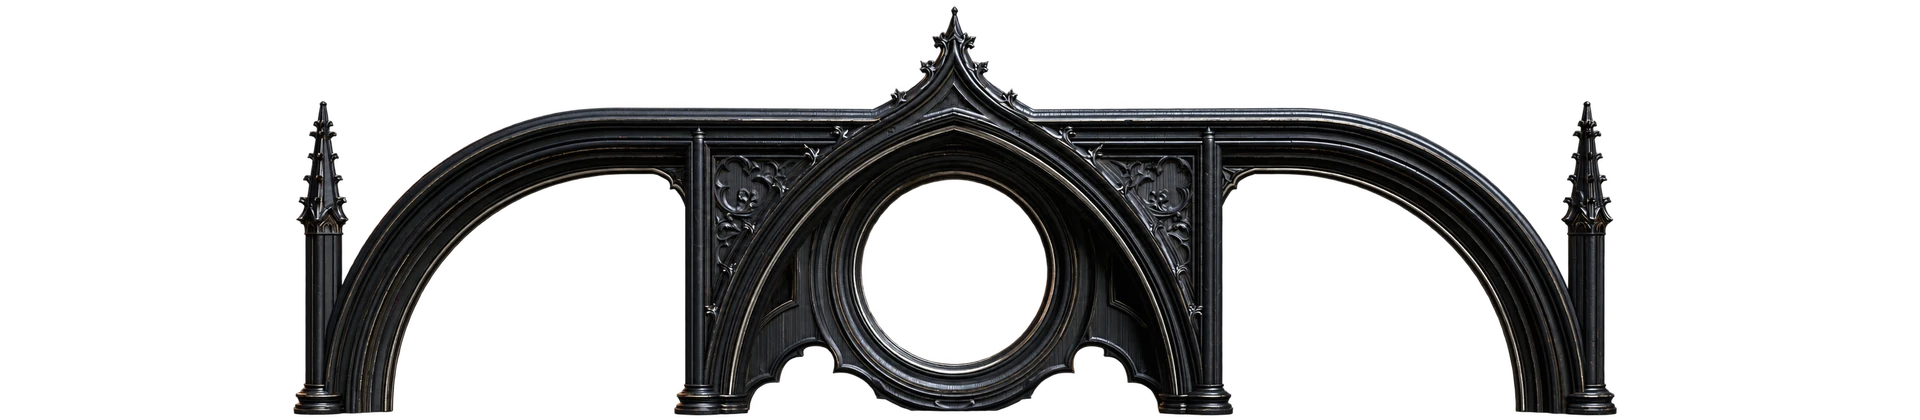
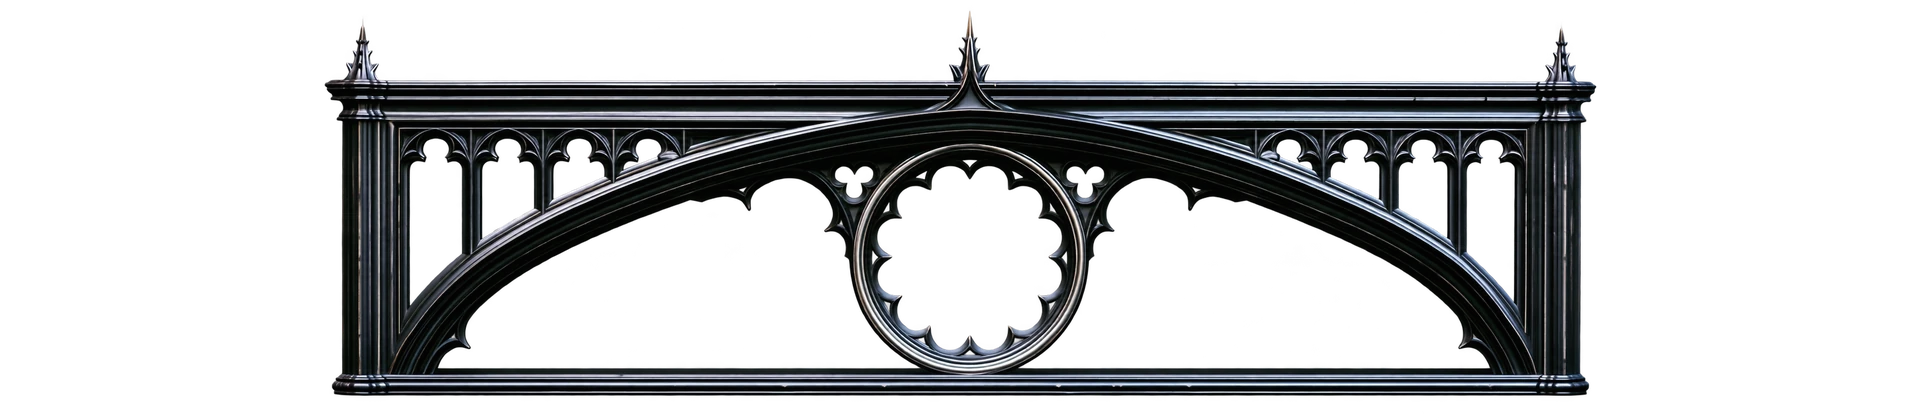
feat(cathedral): pillar-less frame crowns + shared archive (Task 7)
Crowns: crown / ivy-crown / bloom-garland now come from the owner's new
pillar-less frame art (output/cathedral-v1/*-no-pillar.png; old versions
kept as *-with-pillars-backup.webp there). CROWN_GEOM re-measured per
variant: the ~50px side stiles sit centred on the pilasters and the window
glass fills the cusped opening (verified live to within 0.2px in all three
states). Also carries the earlier session's change removing the masked
wood fill behind the arches so the nave shows through them.

Task 7 — shared archive (decision 8): decorations still come only from the
viewer's own cathedral_progress. When browsing a shared archive, a
shared-emblem ribbon hangs under each crown and the plinth plaque names the
members ("Ex Libris · qaAlpha & qaBeta", viewer first). Member usernames
come from the roster the union loader already reads; loadArchiveUnion now
returns { books, memberNames }.

Verified on staging with qa.alpha (progress 30) and qa.beta (0) in one
archive: each sees only their own decorations and Curiosities; beta's
session only ever requested beta's own progress row; no realtime channel
exists that could carry alpha's unlock card to beta; archive_shelf,
archive_reveal and archive_avatar still don't reference cathedral_progress.

diff --git a/src/App.jsx b/src/App.jsx
@@ -290,13 +290,6 @@ const FONT_CSS = `
   background-size: auto, 320px 320px;
   box-shadow: inset 0 14px 22px rgba(0,0,0,0.55), inset 0 -14px 22px rgba(0,0,0,0.55);
 }
-.ht-crown-wood {
-  background-image: linear-gradient(rgba(12,7,20,0.35), rgba(12,7,20,0.35)), url('/cathedral/back-panel.webp');
-  background-size: auto, 320px 320px;
-  mask-size: 100% 100%; -webkit-mask-size: 100% 100%;
-  mask-repeat: no-repeat; -webkit-mask-repeat: no-repeat;
-  pointer-events: none;
-}
 .ht-cathedral-plank {
   position: relative;
   /* span the full back panel so the plank ends meet the pilasters (the
@@ -338,7 +331,14 @@ const FONT_CSS = `
   aspect-ratio: 1920 / 120;
   background: url('/cathedral/plinth.webp') center / contain no-repeat;
 }
+/* shared archive: interlocked-rings ribbon hanging just under the crown */
+.ht-shared-emblem {
+  position: absolute; top: -10px; left: 50%; width: 64px; height: 32px; margin-left: -32px;
+  object-fit: contain; z-index: 6; pointer-events: none;
+  filter: drop-shadow(0 3px 4px rgba(0,0,0,0.6));
+}
 .ht-cathedral-plinth span {
+  max-width: 90%; overflow: hidden; text-overflow: ellipsis; white-space: nowrap;
   position: relative;
   z-index: 1;
   font-size: 8px;
@@ -1916,18 +1916,17 @@ function CathedralSconce({ side, lit, fresh }) {
 // (decision 9, "the apse"); ivy on every bookcase.
 const crownFor = (peak, isLast) => (peak >= 42 && isLast ? "bloom-garland" : peak >= 3 ? "ivy-crown" : "crown");
 
-// Measured from each webp (1920x420 source px): colL/colR are the centres of
-// the two outer column SHAFTS (measured where the shaft stands clear of the
-// arch foot — lower down the two merge into one blob), `bottom` the last
-// opaque row, and the rose-window hole. Variants differ, so each is placed by
-// its own numbers: plinths sit flush on the pilasters, shafts continue into
-// the pilasters' painted shafts, the window fills whichever hole is showing.
+// Pillar-less frame crowns (output/cathedral-v1/*-no-pillar.png), measured
+// from each webp (1920x420 source px): colL/colR are the centres of the two
+// ~50px side stiles (they sit on the pilasters), `bottom` the last opaque row,
+// and the cusped window opening (centre + reach). Bloom is the crown plus
+// roses, so it shares crown's frame; ivy's frame is a touch wider.
 const CROWN_GEOM = {
-  "crown":         { colL: 323.0, colR: 1586.0, bottom: 415, hx: 954.0, hy: 271.5, hr: 92.0 },
-  "ivy-crown":     { colL: 355.0, colR: 1568.0, bottom: 395, hx: 963.5, hy: 258.0, hr: 84.5 },
-  "bloom-garland": { colL: 354.5, colR: 1566.5, bottom: 398, hx: 962.0, hy: 260.0, hr: 86.0 },
+  "crown":         { colL: 367.0, colR: 1555.0, bottom: 395, hx: 969.0, hy: 257.5, hr: 91.0 },
+  "ivy-crown":     { colL: 356.0, colR: 1563.0, bottom: 399, hx: 967.5, hy: 260.0, hr: 91.5 },
+  "bloom-garland": { colL: 367.0, colR: 1555.0, bottom: 395, hx: 969.0, hy: 257.5, hr: 91.0 },
 };
-const CROWN_COL_W = 60;   // column plinth width (all three) = pilaster width
+const CROWN_COL_W = 50;   // side stile width (all three) = pilaster width
 const CROWN_SHAFT_W = 35; // column shaft width (all three)
 // pilaster.webp paints its shaft at x 24-64 (40px wide, centre 44) of 96
 // Scale that makes the crown's outer column bases span exactly the bookcase.
@@ -1943,17 +1942,12 @@ function CrownImage({ name, boxWidth, className = "" }) {
   return <img src={`/cathedral/${name}.webp`} alt="" className={`absolute max-w-none ${className}`} style={crownBox(name, boxWidth)} />;
 }
 
-// Bookcase back-panel wood behind the crown, masked to the crown's interior
-// (<name>-openings.webp: its silhouette + arch openings, generated from the
-// crown's alpha by output/cathedral-v1/prepare_crown_masks.py). Opaque crown
-// hides the rest, so wood shows only inside the arches — the bookcase back
-// continues up into the crown instead of the nave showing through.
-function CrownWood({ name, boxWidth }) {
-  const mask = `url(/cathedral/${name}-openings.webp)`;
-  return <div className="ht-crown-wood absolute" style={{ ...crownBox(name, boxWidth), maskImage: mask, WebkitMaskImage: mask }} />;
-}
+// "alpha & beta" / "alpha, beta & gamma" for the shared-archive plaque.
+const joinNames = (names) => (names.length < 2 ? names.join("") : `${names.slice(0, -1).join(", ")} & ${names[names.length - 1]}`);
 
-function CathedralBookcase({ shelves, boxWidth, peak, index, isLast, fresh = [] }) {
+// members: usernames when viewing a shared archive, [] on a personal shelf.
+// Decorations still come only from the VIEWER's own `peak` (decision 8).
+function CathedralBookcase({ shelves, boxWidth, peak, index, isLast, fresh = [], members = [] }) {
   const roseLit = peak >= 6;
   const crownSrc = crownFor(peak, isLast);
   // Crossfade only at the moment of unlock: the previous crown sits beneath
@@ -1990,7 +1984,6 @@ function CathedralBookcase({ shelves, boxWidth, peak, index, isLast, fresh = [] 
         // rows sitting exactly on the body below (bottom: 0 of this box).
         <div className="relative" style={{ height: (g.bottom + 1) * s }} aria-hidden="true">
           <div className="absolute inset-x-0 bottom-0">
-            <CrownWood name={crownSrc} boxWidth={boxWidth} />
             {/* dark scrim behind the window (art spec's audit note) */}
             <div
               className="absolute rounded-full"
@@ -2030,6 +2023,7 @@ function CathedralBookcase({ shelves, boxWidth, peak, index, isLast, fresh = [] 
         )}
         <CathedralPilaster ivy={ivy} fresh={ivyFresh} />
         <div className="ht-cathedral-back flex-1 px-3 pt-3">
+          {members.length > 0 && <img src="/cathedral/shared-emblem.webp" alt="" aria-hidden="true" className="ht-shared-emblem" />}
           {peak >= 3 && <div className={`ht-ivy-drape${ivyFresh ? " ht-deco-in" : ""}`} aria-hidden="true" />}
           {peak >= 30 && (
             <div className={`ht-wisps${fresh.includes(30) ? " ht-deco-in" : ""}`} aria-hidden="true">
@@ -2048,7 +2042,7 @@ function CathedralBookcase({ shelves, boxWidth, peak, index, isLast, fresh = [] 
         <CathedralPilaster ivy={ivy} mirror fresh={ivyFresh} />
       </div>
       <div className="ht-cathedral-plinth" aria-hidden="true">
-        <span className="ht-display">Ex Libris · Hushthorn</span>
+        <span className="ht-display">Ex Libris · {members.length ? joinNames(members) : "Hushthorn"}</span>
       </div>
     </div>
   );
@@ -2127,7 +2121,7 @@ function layoutShelfRows(books, perRow, peak) {
   return rows;
 }
 
-function SpineShelf({ books, onOpen, query, onPersist, cathedralProgress, shimmer, fresh = [] }) {
+function SpineShelf({ books, onOpen, query, onPersist, cathedralProgress, shimmer, fresh = [], members = [] }) {
   const ref = useRef(null);
   const [perRow, setPerRow] = useState(10);
   const [boxWidth, setBoxWidth] = useState(0);
@@ -2212,6 +2206,7 @@ function SpineShelf({ books, onOpen, query, onPersist, cathedralProgress, shimme
             index={bi}
             isLast={bi === bookcaseRows.length - 1}
             fresh={fresh}
+            members={members}
             shelves={shelfRows.map((row, ri) => renderRow(row, ri))}
           />
         ))}
@@ -2487,6 +2482,7 @@ export default function Hushthorn() {
   const [membershipVersion, setMembershipVersion] = useState(0);
   // Books loaded for the active shared archive (empty while personal).
   const [sharedBooks, setSharedBooks] = useState([]);
+  const [archiveMembers, setArchiveMembers] = useState([]); // usernames, for the cathedral plaque
   // Identity. `profile` is the user's claimed username row (or null until claimed).
   // `profileReady` gates the UsernameGate so the app never flashes before we know.
   const [profile, setProfile] = useState(null);
@@ -2690,7 +2686,7 @@ export default function Hushthorn() {
     `${(title || '').trim().toLowerCase()}|${(author || '').trim().toLowerCase()}`;
 
   const loadArchiveUnion = async (uid, libraryId) => {
-    if (!uid || !libraryId) return [];
+    if (!uid || !libraryId) return { books: [], memberNames: [] };
     const keyOf = unionKeyOf;
 
     // Fetch my books, the two co-member views, my notes, and the roster in parallel.
@@ -2863,29 +2859,37 @@ export default function Hushthorn() {
 
     // Newest-first, so "Recently inscribed" (which preserves incoming order)
     // surfaces the most recently added titles at the top of the archive union.
-    return [...map.values()].sort((a, b) => (b.createdAt || '').localeCompare(a.createdAt || ''));
+    // memberNames (me first) feeds the cathedral's plinth plaque — usernames
+    // only, from the same profiles read above; never anyone's progress.
+    return {
+      books: [...map.values()].sort((a, b) => (b.createdAt || '').localeCompare(a.createdAt || '')),
+      memberNames: memberIds.map((id) => profBy[id]?.username).filter(Boolean),
+    };
   };
 
   // Reload the active archive's union on demand. Extracted from the switch effect
   // so a post-mutation flow (e.g. "Add to my library" from an archive) can refresh
   // the merged shelf immediately instead of waiting for the next archive switch.
   const refreshArchiveUnion = async () => {
-    if (currentLibraryId == null || !session) { setSharedBooks([]); return; }
+    if (currentLibraryId == null || !session) { setSharedBooks([]); setArchiveMembers([]); return; }
     try {
-      setSharedBooks(await loadArchiveUnion(session.user.id, currentLibraryId));
+      const { books: union, memberNames } = await loadArchiveUnion(session.user.id, currentLibraryId);
+      setSharedBooks(union);
+      setArchiveMembers(memberNames);
     } catch (err) {
       console.error('loadArchiveUnion:', err);
       setSharedBooks([]);
+      setArchiveMembers([]);
     }
   };
 
   // Load the active archive's union when switched; clear when personal (null).
   useEffect(() => {
-    if (currentLibraryId == null || !session) { setSharedBooks([]); return; }
+    if (currentLibraryId == null || !session) { setSharedBooks([]); setArchiveMembers([]); return; }
     let cancelled = false;
     loadArchiveUnion(session.user.id, currentLibraryId)
-      .then(union => { if (!cancelled) setSharedBooks(union); })
-      .catch(err => { console.error('loadArchiveUnion:', err); if (!cancelled) setSharedBooks([]); });
+      .then(({ books: union, memberNames }) => { if (!cancelled) { setSharedBooks(union); setArchiveMembers(memberNames); } })
+      .catch(err => { console.error('loadArchiveUnion:', err); if (!cancelled) { setSharedBooks([]); setArchiveMembers([]); } });
     return () => { cancelled = true; };
   }, [currentLibraryId, session]); // eslint-disable-line react-hooks/exhaustive-deps
 
@@ -3514,6 +3518,7 @@ export default function Hushthorn() {
             query={query}
             onPersist={persistSpineColor}
             cathedralProgress={cathedralProgress}
+            members={currentLibraryId != null ? archiveMembers : []}
             shimmer={cathedralToast?.kind === "unlock"}
             fresh={
               cathedralToast?.kind === "unlock"
